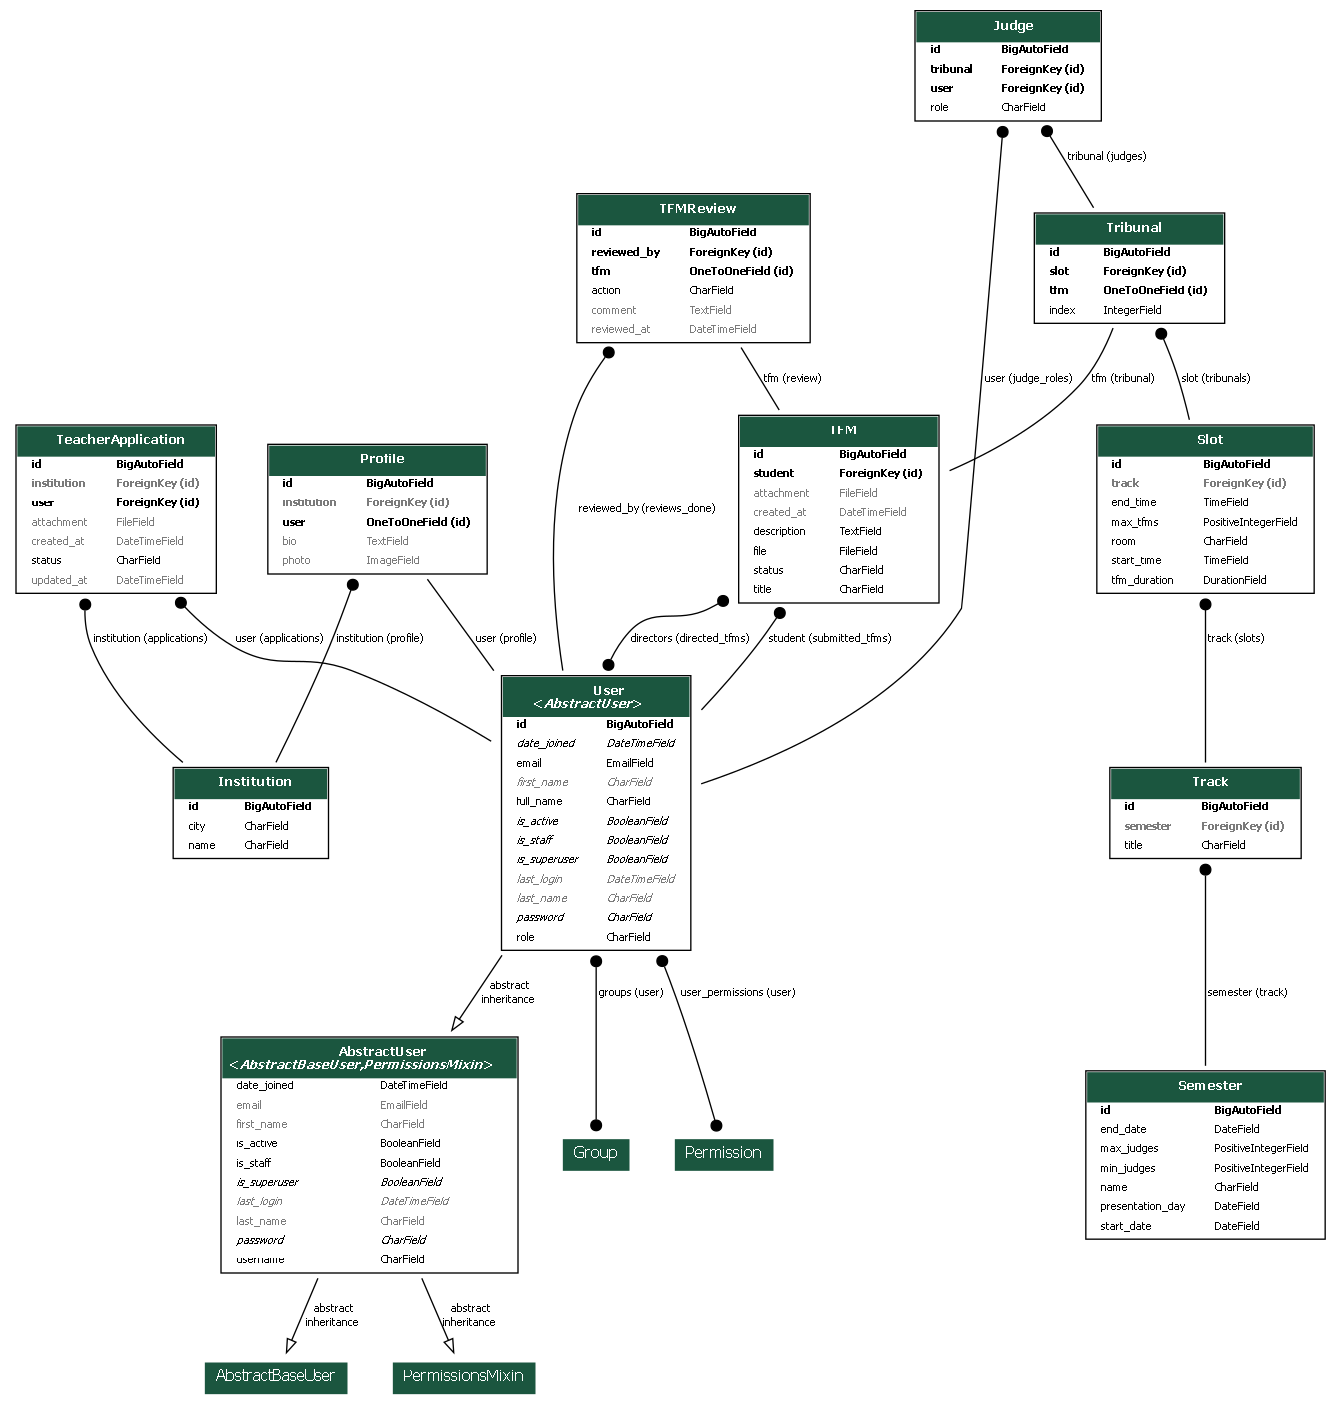
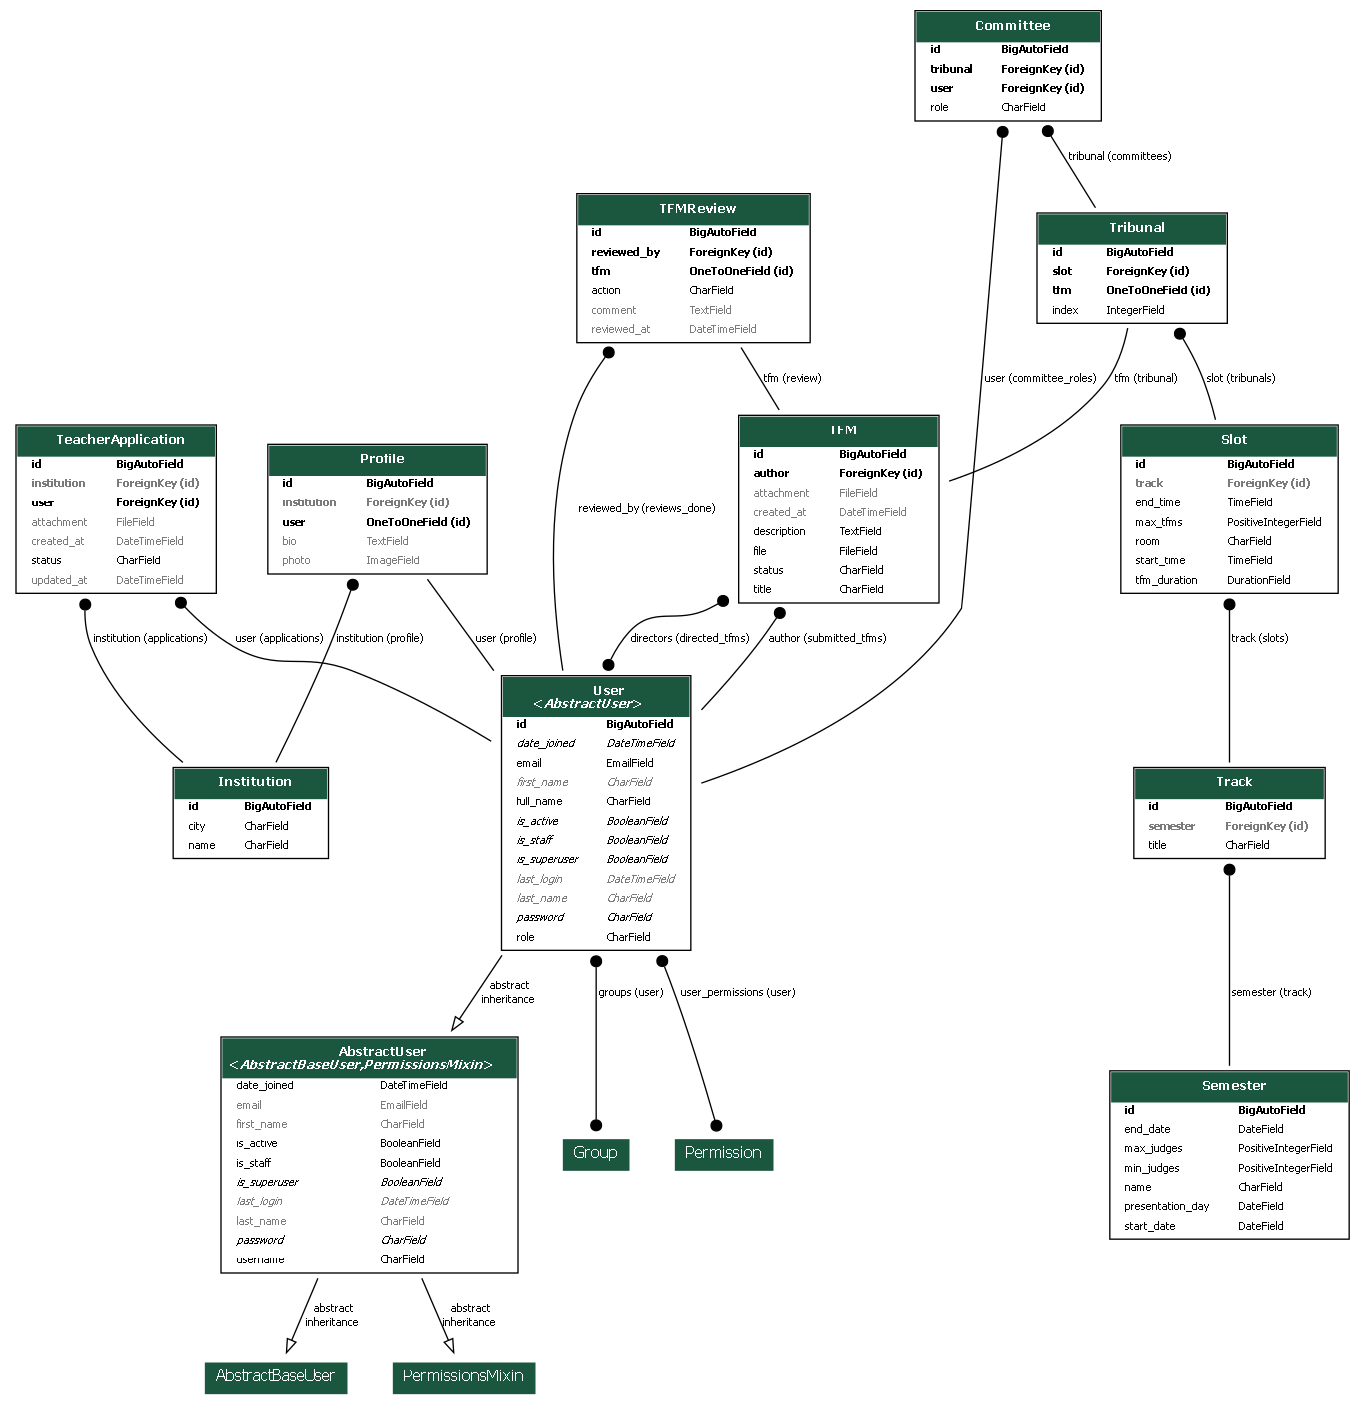
Update diagram

diff --git a/README.md b/README.md
@@ -150,16 +150,16 @@ INSTALLED_APPS = [
 To create a **portrait-oriented** diagram that fits A4 pages:
 
 ```sh
-python manage.py graph_models users applications profiles tfms slots tracks tribunals judges semesters institutions --layout=dot --rankdir=TB -o clean_diagram.pdf
+python manage.py graph_models users applications profiles tfms slots tracks tribunals committees semesters institutions --layout=dot --rankdir=TB -o diagram.pdf
 ```
 
 You can change the output format by changing the file extension:
 
 | Format | Output Command         |
 | ------ | ---------------------- |
-| PDF    | `-o clean_diagram.pdf` |
-| SVG    | `-o clean_diagram.svg` |
-| PNG    | `-o clean_diagram.png` |
+| PDF    | `-o diagram.pdf` |
+| SVG    | `-o diagram.svg` |
+| PNG    | `-o diagram.png` |
 
 > **Note**: PNG may lose quality on large diagrams; use SVG or PDF for print or embedding in documents.
 
